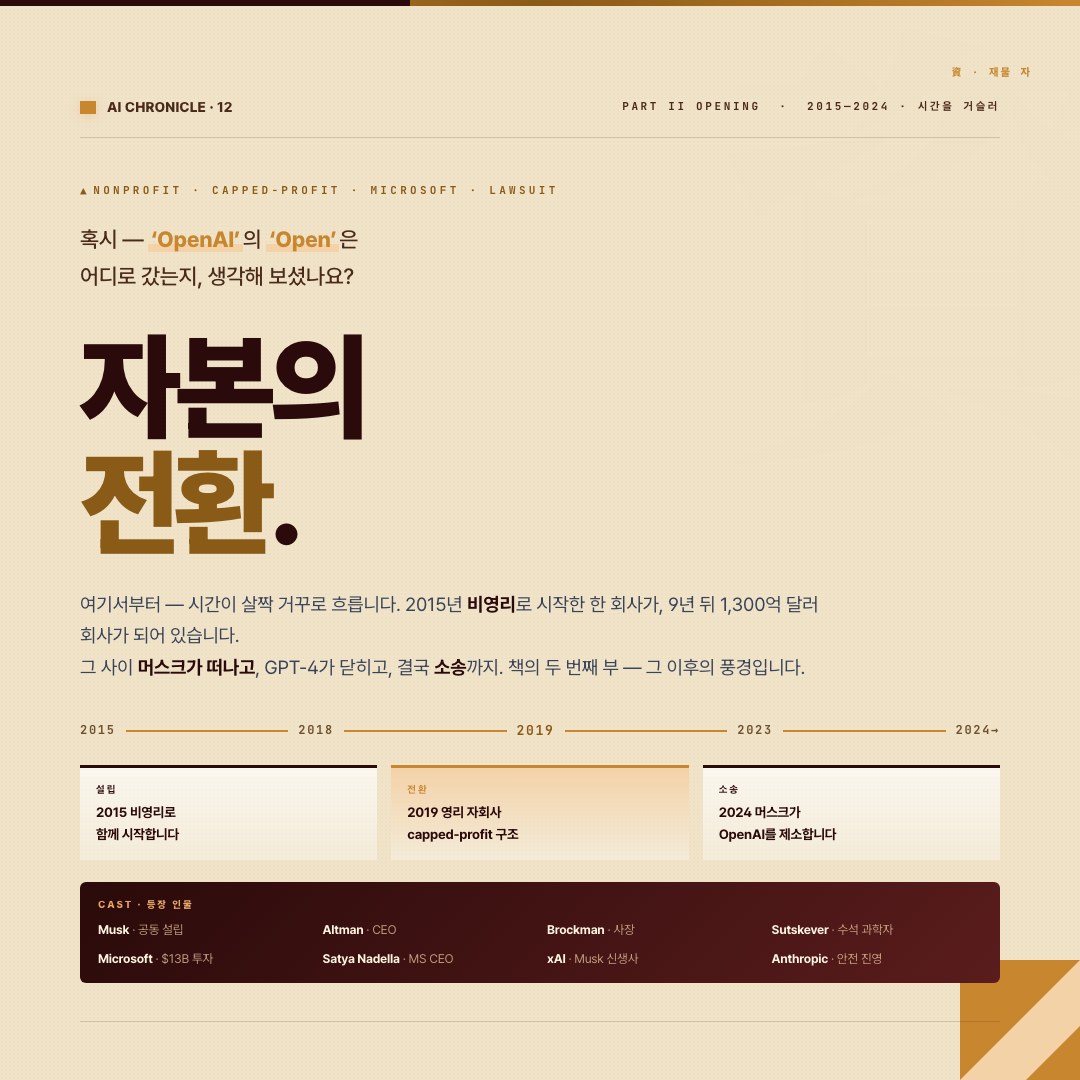
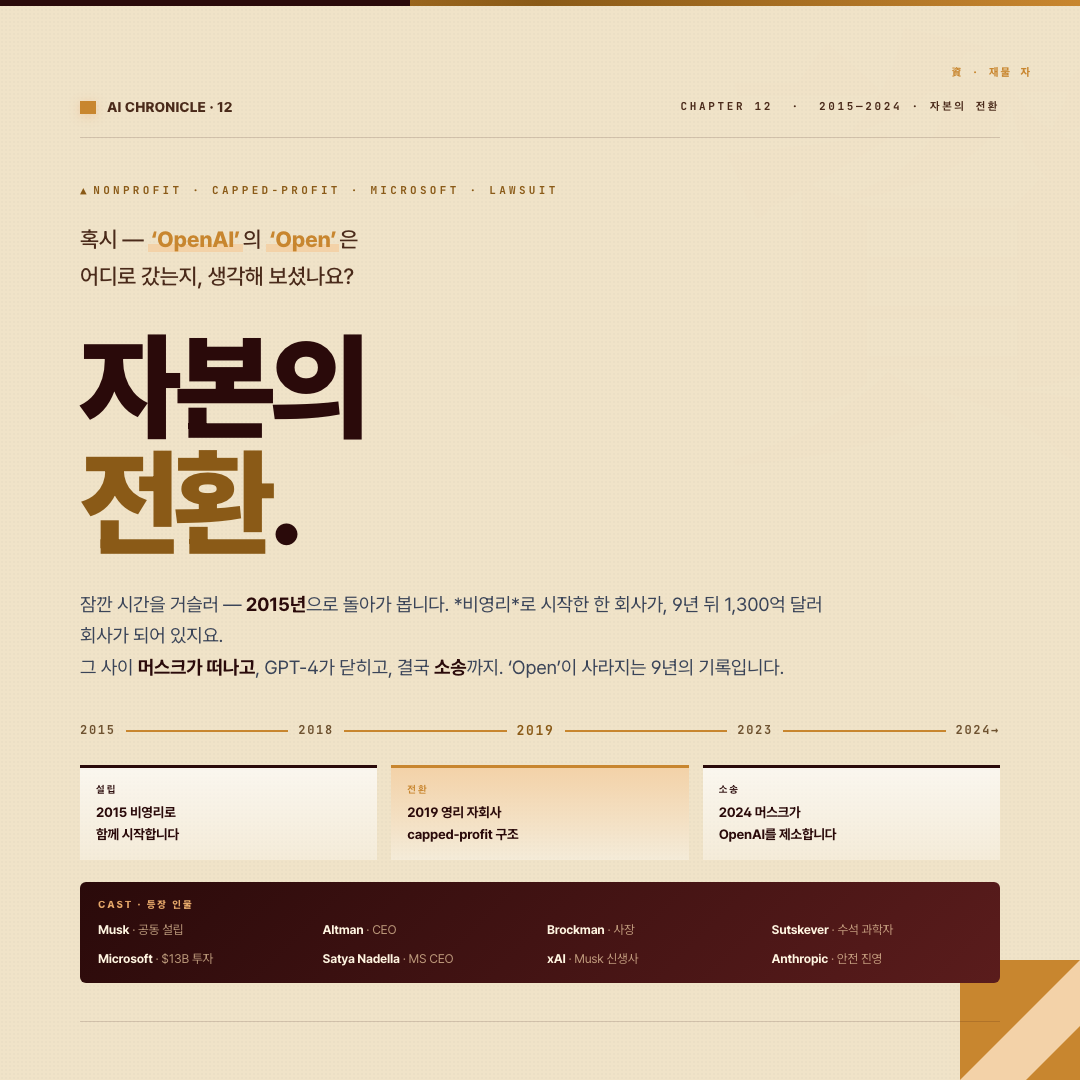
revert(history): PART I/II 시각 분리 제거 — 단일 시간순 그리드로 환원
- history.html: part-divider HTML/CSS/JS 전부 제거
- 'applied' tag chip 제거, 12·13·14·15호 data-tags 'revival'로 환원
- chip 라벨 '부활 · 2006—2023' → '부활 · 2006—오늘' 복구
- 12호 cover chaptertag 'PART II OPENING' → 'CHAPTER 12 · 자본의 전환' 환원
- 12호 cover lead에서 '책의 두 번째 부' 표현 정리, 본문 흐름 자연화
- 12호 cover PNG 재캡처

diff --git a/history.html b/history.html
@@ -42,39 +42,6 @@
   body.chronicle .series-card .thumb .hanja { color: rgba(200,134,47,0.7); }
   body.chronicle .series-card.coming { opacity: 0.45; cursor: default; pointer-events: none; }
   body.chronicle .site-foot { color: var(--ink-mid); border-top-color: var(--line); }
-
-  /* PART divider — 두 부의 책 구조를 시각적으로 분리 */
-  body.chronicle .part-divider {
-    grid-column: 1 / -1;
-    margin: 28px 0 6px;
-    padding: 22px 24px;
-    border-top: 1px solid var(--line-strong);
-    border-bottom: 1px solid var(--line);
-    background: linear-gradient(180deg, rgba(255,245,225,0.55), rgba(243,210,168,0.18));
-  }
-  body.chronicle .part-divider-inner { max-width: 720px; }
-  body.chronicle .part-eyebrow {
-    font-family: 'JetBrains Mono', monospace;
-    font-size: 11px; letter-spacing: 0.3em;
-    color: var(--brand-deep); font-weight: 800;
-    text-transform: uppercase;
-  }
-  body.chronicle .part-title {
-    font-family: 'Noto Serif KR', serif;
-    font-size: 28px; font-weight: 900;
-    color: var(--navy);
-    margin-top: 8px; line-height: 1.15;
-    letter-spacing: -0.01em;
-  }
-  body.chronicle .part-title em { color: var(--brand-deep); font-style: normal; }
-  body.chronicle .part-lead {
-    font-size: 14.5px; line-height: 1.7;
-    color: var(--ink-soft);
-    margin-top: 10px;
-  }
-  body.chronicle .part-divider.hidden-by-filter { display: none; }
-  body.chronicle .view-list .part-divider,
-  body.chronicle .view-single .part-divider { margin: 24px 0 4px; }
 </style>
 </head><body class="chronicle">
 
@@ -125,21 +92,13 @@
       <button type="button" class="chip" data-tag="prologue">전사 · ~1936</button>
       <button type="button" class="chip" data-tag="foundation">토대 · 1936—1956</button>
       <button type="button" class="chip" data-tag="winter">겨울 · 1958—1993</button>
-      <button type="button" class="chip" data-tag="revival">부활 · 2006—2023</button>
-      <button type="button" class="chip" data-tag="applied">그 이후 · 2015→오늘</button>
+      <button type="button" class="chip" data-tag="revival">부활 · 2006—오늘</button>
     </div>
   </div>
 </div>
 
 <div class="series-grid view-grid" id="series-grid">
 
-  <div class="part-divider" id="part-1-divider" data-issue="0.5">
-    <div class="part-divider-inner">
-      <div class="part-eyebrow">PART I · 한 줄기 흐름</div>
-      <h3 class="part-title">톱니바퀴에서 <em>ChatGPT</em>까지</h3>
-      <p class="part-lead">1739년의 황동 오리에서 2022년 ChatGPT의 밤까지 — 사람이 ‘생각하는 기계’를 만들어 온 한 줄기 시간순 이야기. 11개 호.</p>
-    </div>
-  </div>
 
   <a class="series-card" href="chronicle/cogwheel.html?v=29" data-slug="cogwheel" data-issue="1" data-tags="prologue">
     <div class="thumb">
@@ -295,15 +254,7 @@
     </div>
   </a>
 
-  <div class="part-divider" id="part-2-divider" data-issue="11.5">
-    <div class="part-divider-inner">
-      <div class="part-eyebrow">PART II · 그 이후</div>
-      <h3 class="part-title"><em>자본</em>·<em>경쟁</em>·<em>몸</em>·<em>에이전트</em></h3>
-      <p class="part-lead">한 줄기 시간이 끝난 자리에서 — 회사, 자본, 국가, 그리고 몸. ChatGPT 이후의 풍경을 4개 테마로 다시 봅니다. 시간이 살짝 거꾸로 흐르는 부분이 있습니다.</p>
-    </div>
-  </div>
-
-  <a class="series-card" href="chronicle/capital.html?v=30" data-slug="capital" data-issue="12" data-tags="applied">
+  <a class="series-card" href="chronicle/capital.html?v=30" data-slug="capital" data-issue="12" data-tags="revival">
     <div class="thumb">
       <img src="chronicle-12-outputs-capital/01-cover.png?v=30" alt="자본의 전환 cover" loading="lazy" />
       <div class="hanja">資</div>
@@ -317,7 +268,7 @@
     </div>
   </a>
 
-  <a class="series-card" href="chronicle/race.html?v=30" data-slug="race" data-issue="13" data-tags="applied">
+  <a class="series-card" href="chronicle/race.html?v=30" data-slug="race" data-issue="13" data-tags="revival">
     <div class="thumb">
       <img src="chronicle-13-outputs-race/01-cover.png?v=30" alt="AGI 군비경쟁 cover" loading="lazy" />
       <div class="hanja">競</div>
@@ -331,7 +282,7 @@
     </div>
   </a>
 
-  <a class="series-card" href="chronicle/physical.html?v=30" data-slug="physical" data-issue="14" data-tags="applied">
+  <a class="series-card" href="chronicle/physical.html?v=30" data-slug="physical" data-issue="14" data-tags="revival">
     <div class="thumb">
       <img src="chronicle-14-outputs-physical/01-cover.png?v=30" alt="피지컬 AI cover" loading="lazy" />
       <div class="hanja">體</div>
@@ -345,7 +296,7 @@
     </div>
   </a>
 
-  <a class="series-card" href="chronicle/today.html?v=30" data-slug="today" data-issue="15" data-tags="applied">
+  <a class="series-card" href="chronicle/today.html?v=30" data-slug="today" data-issue="15" data-tags="revival">
     <div class="thumb">
       <img src="chronicle-15-outputs-today/01-cover.png?v=30" alt="에이전트와 오늘 cover" loading="lazy" />
       <div class="hanja">今</div>
@@ -369,7 +320,7 @@
 <script>
 (function () {
   const grid = document.getElementById('series-grid');
-  const cards = Array.from(grid.querySelectorAll('.series-card, .part-divider'));
+  const cards = Array.from(grid.querySelectorAll('.series-card'));
   const viewButtons = document.querySelectorAll('[data-view]');
   const sortButtons = document.querySelectorAll('[data-sort]');
   const chipButtons = document.querySelectorAll('.chip');
@@ -387,20 +338,11 @@
   function applyFilter() {
     const tag = state.tag;
     cards.forEach(c => {
-      if (c.classList.contains('part-divider')) {
-        // PART 2 divider는 'all' 또는 'applied'일 때만 노출
-        const isPart2 = c.id === 'part-2-divider';
-        const match = tag === 'all' || (isPart2 && tag === 'applied');
-        c.classList.toggle('hidden-by-filter', !match);
-        return;
-      }
       const tags = (c.dataset.tags || '').split(',').filter(Boolean);
       const match = tag === 'all' || tags.includes(tag);
       c.classList.toggle('hidden-by-filter', !match);
     });
-    const part1 = document.getElementById('part-1-divider');
-    if (part1) part1.classList.toggle('hidden-by-filter', tag !== 'all');
-    countLabel.textContent = cards.filter(c => c.classList.contains('series-card') && !c.classList.contains('hidden-by-filter') && !c.classList.contains('coming')).length;
+    countLabel.textContent = visibleCards().filter(c => !c.classList.contains('coming')).length;
     chipButtons.forEach(b => b.classList.toggle('active', b.dataset.tag === tag));
   }
   function applySort() {

diff --git a/chronicle-12-cards-capital/01-cover.html b/chronicle-12-cards-capital/01-cover.html
@@ -14,7 +14,7 @@
   <div class="stage">
     <div class="header">
       <div class="brandmark"><span class="tri"></span> AI CHRONICLE &middot; 12</div>
-      <div class="chaptertag">PART II OPENING &nbsp;&middot;&nbsp; 2015—2024 · 시간을 거슬러</div>
+      <div class="chaptertag">CHAPTER 12 &nbsp;&middot;&nbsp; 2015—2024 · 자본의 전환</div>
     </div>
 
     <div class="kicker" style="margin-top:44px;">NONPROFIT · CAPPED-PROFIT · MICROSOFT · LAWSUIT</div>
@@ -29,8 +29,8 @@
     </h1>
 
     <p class="lead">
-      여기서부터 — <em>시간이 살짝 거꾸로</em> 흐릅니다. 2015년 <b>비영리</b>로 시작한 한 회사가, 9년 뒤 <em>1,300억 달러</em> 회사가 되어 있습니다.<br />
-      그 사이 <b>머스크가 떠나고</b>, GPT-4가 <em>닫히고</em>, 결국 <b>소송</b>까지. 책의 두 번째 부 — <em>그 이후의 풍경</em>입니다.
+      잠깐 시간을 거슬러 — <b>2015년</b>으로 돌아가 봅니다. *비영리*로 시작한 한 회사가, 9년 뒤 <em>1,300억 달러</em> 회사가 되어 있지요.<br />
+      그 사이 <b>머스크가 떠나고</b>, GPT-4가 <em>닫히고</em>, 결국 <b>소송</b>까지. <em>‘Open’</em>이 사라지는 9년의 기록입니다.
     </p>
 
     <div class="timeline">
